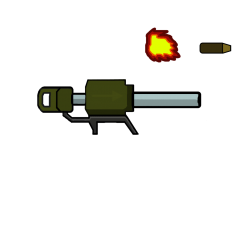
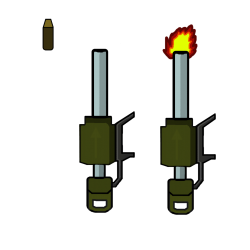
some fixes for the team_name game

Changed region(s): [[0.14, 0.084, 0.924, 0.868], [0.168, 0.056, 0.224, 0.224]]

diff --git a/Classes/PilotPDX/team_name/game.js b/Classes/PilotPDX/team_name/game.js
@@ -1,6 +1,6 @@
 var currentScore;
 var livesRemaining;
-var gameLengthSeconds = 30;
+var gameLengthSeconds = 3;
 var timedCounter;
 var gameStarted = false;
 var playfield;
@@ -29,10 +29,12 @@ $(function() {
     // initialization routine(s)
     initializeListeners();
     initializeAudio();
-    duck.initialize();
-    duck.draw();
-
+    initializeCharacters();
 });
+
+function initializeCharacters(){
+  duck.initialize(loadComplete);
+}
 
 // register the key press listener
 function initializeListeners() {
@@ -67,7 +69,7 @@ function loadComplete() {
 }
 
 function isEveryingLoaded() {
-    return (loadedItems == 4);
+    return (loadedItems == 6);
 }
 // start the game
 function gameStart() {
@@ -80,8 +82,21 @@ function gameStart() {
     sounds.gameOver.currentTime = 0; // rewind the 'game over' sound
     startTimer();
     moveBackground();
-    duck.draw();
+    startAnimation();
 }
+var animationTimer;
+function startAnimation(){
+  animationTimer = setInterval(function() {
+    animate();
+  }, 1);
+}
+function stopAnimation(){
+  clearInterval(animationTimer);
+}
+function animate(){
+  duck.draw();
+}
+
 var backgroundTimer;
 function moveBackground() {
     backgroundTimer = setInterval(function() {
@@ -98,6 +113,7 @@ function gameEnd() {
     sounds.gameOver.play();
     gameStarted = false;
     haltBackground();
+    stopAnimation();
     $('#gameOver').show();
 }
 // update the onscreen timer
@@ -121,30 +137,11 @@ function startTimer() {
     }, 1000);
 }
 
-// Translate key press event into direction
-function keyEventHandler(event) {
-    if (event.keyCode == 38) {
-        move('up');
-    } else if (event.keyCode == 39) {
-        move('right');
-    } else if (event.keyCode == 40) {
-        move('down');
-    } else if (event.keyCode == 37) {
-        move('left');
-    } else if (event.keyCode == 32) {
-        // spacebar event - used for game start or jump ?
-    }
-}
-
-function move(direction) {
-    console.log(`Move ${direction}`);
-    // add the motion handling
-}
 var duck = {
-  x: 325,
+  x: 0,
   y: 397,
-  width: 150,
-  height: 150,
+  width: 100,
+  height: 100,
   hit: false,
   speed: 1,
   direction: 0,
@@ -153,8 +150,19 @@ var duck = {
   bulletLimit: 5,
   bullets: [],
   img: null,
+  weapon : {
+    inactive : {x : 45, y: 26, width: 37, height: 104},
+    firing : {x: 95, y: 12, width: 35, height: 118},
+    isFiring : false,
+    fireCount : 2,
+    bullet : {x: 24, y: 11, width: 11, height: 22},
+    bullets : [],
+    getCurrent(){ return (this.isFiring) ? this.firing : this.inactive; }
+  },
   draw(){
-    context.clearRect(this.x-2, this.y-2, this.width+4, this.height+4);
+    context.clearRect(this.x, this.y, this.width, this.height);
+    var cw = this.weapon.getCurrent();
+    context.clearRect(this.x - 20, this.y, cw.width, cw.height);
     // Determine if the action is move action
 		if (KEY_STATUS.left || KEY_STATUS.right) {
 			if (KEY_STATUS.left) {
@@ -163,11 +171,13 @@ var duck = {
 					this.x = 0;
 			} else if (KEY_STATUS.right) {
 				this.x += this.speed
-				if (this.x >= this.canvasWidth - this.width)
-					this.x = this.canvasWidth - this.width;
+				if (this.x >= playfield.width - this.width)
+					this.x = playfield.width - this.width;
 			}
     }
     context.drawImage(this.img,this.x ,this.y);
+    context.drawImage(this.weapon.img, cw.x, cw.y, cw.width, cw.height,
+      this.x - 20, this.y, cw.width, cw.height);
     // fire!!!
     if (KEY_STATUS.space) {
       this.fire();
@@ -177,14 +187,14 @@ var duck = {
     context.setTransform(1, 0, 0, 1, 0, 0);
     this.drawBullets();
   },
-  initialize(){
-    this.x = Math.round( (playfield.width + this.width) / 2);
+  initialize(completeCallback){
     this.img = new Image();
-    this.img.onload = this.loaded;
-    this.img.src = "images/rubberDucky.jpg";
-  },
-  loaded(){
-    console.log('loaded!');
+    this.img.onload = completeCallback;
+    this.img.src = "images/rubberDucky-sm.png";
+    this.weapon.img = new Image();
+    this.weapon.img.onload = completeCallback;
+    this.weapon.img.src = "images/rpg-sm.png";
+    this.x = Math.round( (playfield.width - this.width) / 2);
   },
   fire(){
     if(this.bullets.length < this.bulletLimit){

diff --git a/Classes/PilotPDX/team_name/index.html b/Classes/PilotPDX/team_name/index.html
@@ -8,7 +8,7 @@
 <body>
 
 <div id="gameboard">
-  <canvas id="playfield"></canvas>
+  <canvas id="playfield" width="800" height="600"></canvas>
   <span id="score" class="boardValueContainer"><span class="title">Score</span><span id="scoreValue" class="boardValues">0</span></span>
   <span id="level" class="boardValueContainer"><span class="title">Level</span><span id="levelValue" class="boardValues">0</span></span>
   <span id="timer" class="boardValueContainer"><span class="title">Timer</span><span id="timerValue" class="boardValues">0</span></span>

diff --git a/Classes/PilotPDX/team_name/game.css b/Classes/PilotPDX/team_name/game.css
@@ -7,8 +7,6 @@ body{
 canvas {
   border-style: solid;
   border-color: black;
-  width: 800px;
-  height: 600px;
   background-image: url('images/YETAGAINANOTHERGAMEBACKGROUND.jpg');
   background-repeat: repeat;
   z-index: 0;
